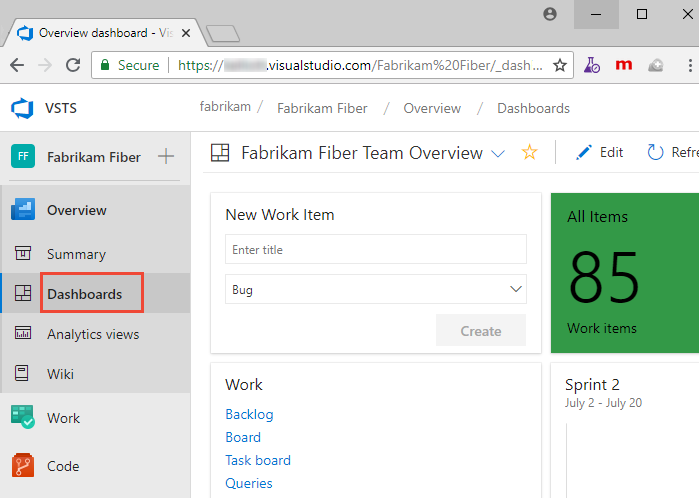
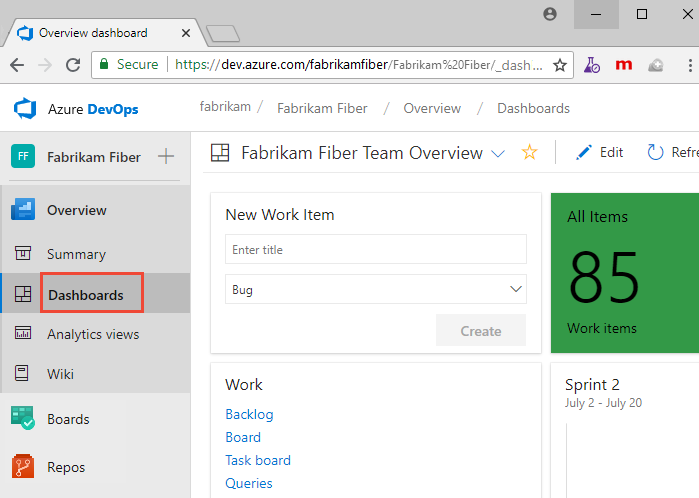
a few image updates

diff --git a/docs/report/dashboards/dashboards.md b/docs/report/dashboards/dashboards.md
@@ -15,7 +15,7 @@ ms.date: 07/21/2018
 
 # Add and manage dashboards
 
-**Azure DevOps | TFS 2018 | TFS 2017 | TFS 2015.1**
+**Azure DevOps Services | TFS 2018 | TFS 2017 | TFS 2015.1**
 
 Share progress and status with your team using configurable team dashboards. Dashboards provide easy-to-read, easy access, real-time information. At a glance, you can make informed decisions without having to drill down into other parts of your project. 
 
